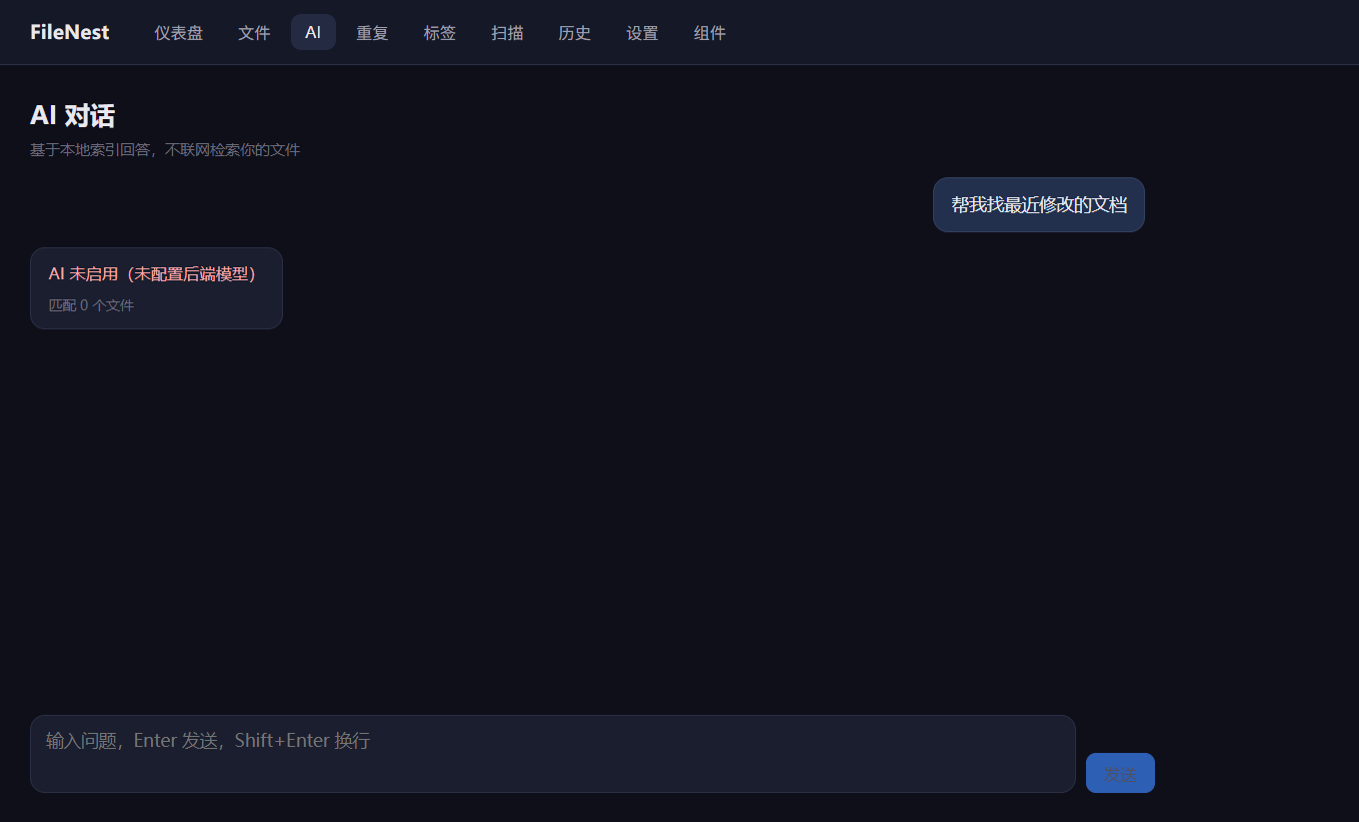
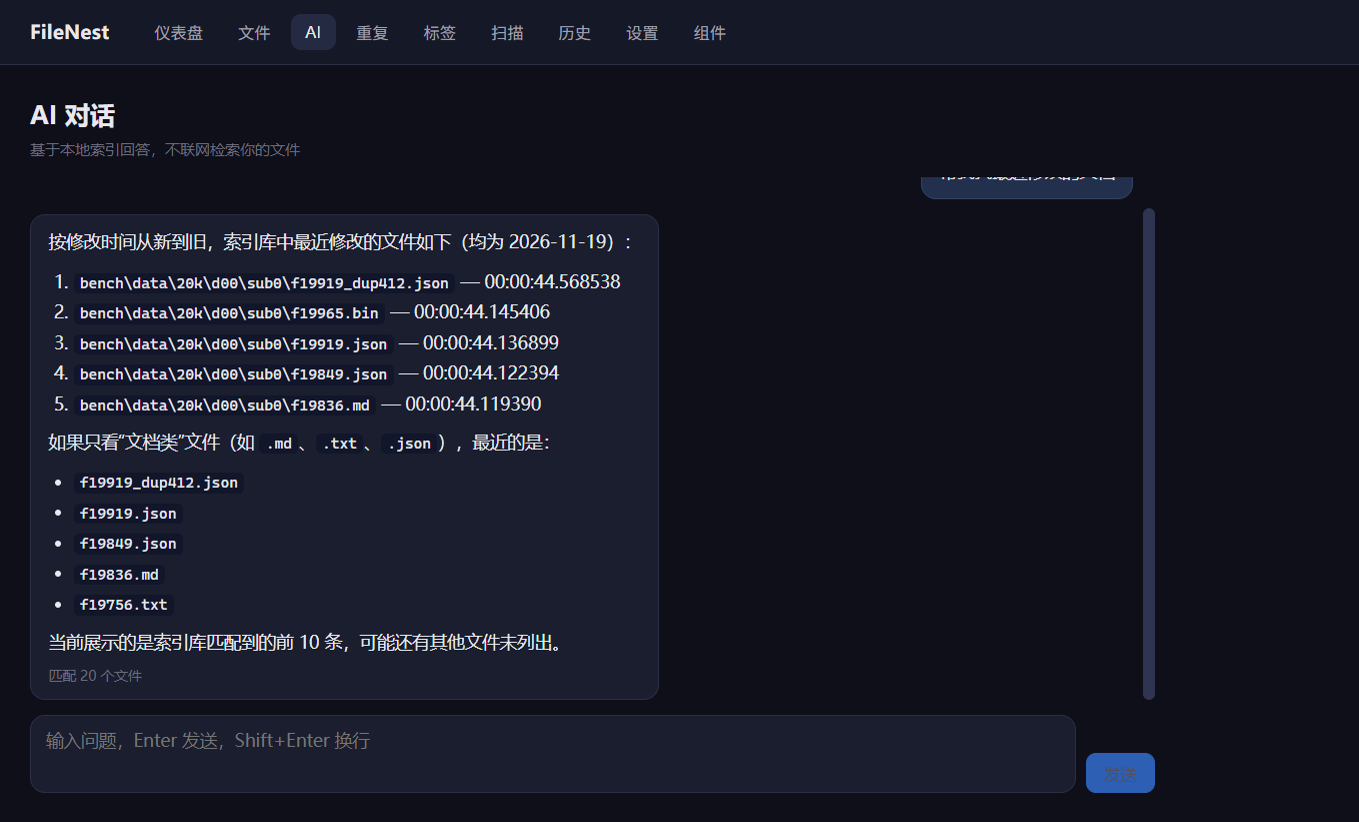
feat(ai): 对话上下文兜底与真实模型验证
整句自然语言按文件名匹配常为 0 命中，模型只能回答「库里没有文件」。改为：无匹配时退化为最近入库 20 条，并在上下文里补上 modify_time，使「最近修改」类问题可回答。已用火山方舟 deepseek-v4.1-flash 实测：能按时间排序给出文件清单。

Changed region(s): [[0.0309, 0.2737, 0.4636, 0.5474], [0.6799, 0.2129, 0.8653, 0.8516], [0.0309, 0.5779, 0.4018, 0.8516]]

diff --git a/desktop/src/main/index.ts b/desktop/src/main/index.ts
@@ -199,7 +199,7 @@ if (!app.requestSingleInstanceLock()) {
             await win!.webContents.executeJavaScript(
               `document.querySelector('[data-send]')?.click()`,
             )
-            await new Promise((r) => setTimeout(r, 6000))
+            await new Promise((r) => setTimeout(r, 20000))
           }
 
           // 通用点击（选择器不能含空格，否则会被命令行拆开）

diff --git a/web_api.py b/web_api.py
@@ -1471,7 +1471,11 @@ def ai_chat_stream(body: ChatStreamBody,
     def gen():
         try:
             fdao = FileDAO(db)
+            # 整句自然语言按文件名匹配多半 0 命中；此时退化为"最近入库的文件"，
+            # 至少让模型有真实上下文，而不是回答"库里没有文件"。
             rows = (fdao.search(name=message) or [])[:20]
+            if not rows:
+                rows = fdao.get_page_after(None, page_size=20) or []
             yield _sse({'type': 'meta', 'matches': len(rows)})
 
             layer = _ai_layer()
@@ -1480,7 +1484,8 @@ def ai_chat_stream(body: ChatStreamBody,
                 return
 
             files_text = '\n'.join(
-                f"- {r.get('file_name')} | {_fmt_size(r.get('file_size'))} | {r.get('file_path')}"
+                f"- {r.get('file_name')} | {_fmt_size(r.get('file_size'))} | "
+                f"修改时间 {r.get('modify_time')} | {r.get('file_path')}"
                 for r in rows[:10]) or '（未匹配到文件）'
             messages = [
                 {'role': 'system',

diff --git a/docs/PROGRESS.md b/docs/PROGRESS.md
@@ -1,6 +1,6 @@
 # 项目进度
 
-> 最后更新：2026-11-20　当前阶段：**P3（进行中）**　总体完成度：约 79%
+> 最后更新：2026-11-20　当前阶段：**P3（进行中）**　总体完成度：约 80%
 > 方案与验收标准见 `docs/REFACTOR_PLAN.md`；性能基线见 `docs/perf/BASELINE.md`。
 
 ## 一句话现状
@@ -14,7 +14,7 @@ P0 全部走完（度量、骨架、sidecar 握手、打包，含一次体积决
 | P0 度量与骨架 | ✅ 完成 | 100% | NSIS 安装包未产出（网络阻塞），其余达成 |
 | P1 服务化与数据治理 | 🟡 收尾 | 约 85% | 数据层 + 计算内核 + 扫描服务 + 任务/SSE + 缩略图/退出/token 已落地；剩 watcher 等按需项 |
 | P2 渲染骨架与设计系统 | ✅ 完成 | 100% | 7 个页面 + 组件库 + 截图回归 |
-| P3 页面迁移 | 🟡 进行中 | 约 15% | AI 对话已落地；分类/清理/时间线等未做 |
+| P3 页面迁移 | 🟡 进行中 | 约 20% | AI 对话已联通真实模型；分类/清理/时间线未做 |
 | P4 收尾与发布 | ⬜ 未开始 | 0% | — |
 
 ## 已完成（可验收）
@@ -45,7 +45,9 @@ P0 全部走完（度量、骨架、sidecar 握手、打包，含一次体积决
 | T2-10 | 历史页：回收区（恢复）+ 操作记录（撤销、类型筛选） | `pages/HistoryPage.vue` | 测试覆盖删除→回收区→恢复（文件回原位、库状态一致）；截图 `docs/screenshot_v3_recycle.png`、`docs/screenshot_v3_history.png` |
 | T2-11 | 标签页：列表/新增/重命名/删除；修复 `rename_tag` | `pages/TagsPage.vue`、`database/models.py` | `rename_tag` 原先只改 `file_tags`，无关联文件的标签改名无效；改为事务内同步 `tags` 与别名；测试覆盖增删改（中文名 URL 编码）；截图 `docs/screenshot_v3_tags.png` |
 | T2-12 | 设置页：AI 提供商增删改/默认/测试 + 运行信息 | `pages/SettingsPage.vue` | 模板快速创建、密钥掩码沿用；运行信息读 `/health`（版本/端口/PID）；截图 `docs/screenshot_v3_settings.png` |
-| T3-1 | AI 对话页：SSE 流式 + Markdown 渲染 + 净化 | `pages/ChatPage.vue`、`main/index.ts`、`lib/markdown.ts` | 主进程消费 SSE 并逐帧转发 IPC；markdown-it（`html:false`）+ DOMPurify；实测链路：meta/error 帧正确渲染，静态 Markdown（表/代码/引用）渲染正常；截图 `docs/screenshot_v3_chat.png`、`docs/screenshot_v3_markdown.png` |
+| T3-1 | AI 对话页：SSE 流式 + Markdown 渲染 + 净化 | `pages/ChatPage.vue`、`main/index.ts`、`lib/markdown.ts` | 主进程消费 SSE 并逐帧转发 IPC；markdown-it（`html:false`）+ DOMPurify；**已用真实模型验证流式渲染**；截图 `docs/screenshot_v3_chat.png`、`docs/screenshot_v3_markdown.png` |
+| T3-2 | 对话上下文增强 | `web_api.py` | 整句匹配不到文件名时退化为"最近入库 20 条"，并在上下文里补 `modify_time`；实测模型能按时间排序给出文件清单 |
+| T3-3 | 接入真实模型 | `ai_models.json`（本地，不入库） | 火山方舟 `deepseek-v4.1-flash`，`/providers/volc/test` 延迟 1076ms |
 
 ## 关键数字（实测，Windows 11 / 12 核 / Python 3.14.9）
 
@@ -99,7 +101,7 @@ P0 全部走完（度量、骨架、sidecar 握手、打包，含一次体积决
 | 27 | 标签颜色/合并/别名管理未接 UI（接口已有） | 层级与配色能力闲置 | 需要时补 |
 | 28 | 后端没有扫描目录的增删改接口，设置页无法管理扫描目录 | 用户无法在界面里增删监控目录 | 补 `/api/directories` CRUD（DAO 已就绪） |
 | 29 | 设置页"测试连接"按钮未验证（需要真实 API Key） | 失败原因可能不友好 | 配好真实密钥后手测一次 |
-| 30 | AI 对话的"逐字流式"未用真实模型验证（只验证了 meta/error 帧与静态 Markdown） | delta 追加逻辑未经真实 token 流检验 | 配好模型后发一条长回答观察 |
+
 | 31 | 首次对话约有 4 秒无响应（`_ai_layer()` 初始化慢） | 用户会以为卡住 | 页面加"思考中…"占位，或预热 AI 层 |
 | 32 | 对话不保存，刷新即丢 | 无法回看历史问答 | 接 `sessions/` 持久化 |
 
@@ -139,3 +141,4 @@ cd desktop && npm run build && npm run smoke
 |----------|----------|------|
 | 2026-11-19 | 13–20 | 补齐此前只在对话里提过、未落表的 8 项 |
 | 2026-11-19 | 关闭 23 | 新增 `/api/dedup/start` 与重复页「检测重复」按钮，空页不再无路可走 |
+| 2026-11-20 | 关闭 30 | 用真实模型（火山方舟 deepseek-v4.1-flash）验证流式渲染与上下文增强 |
